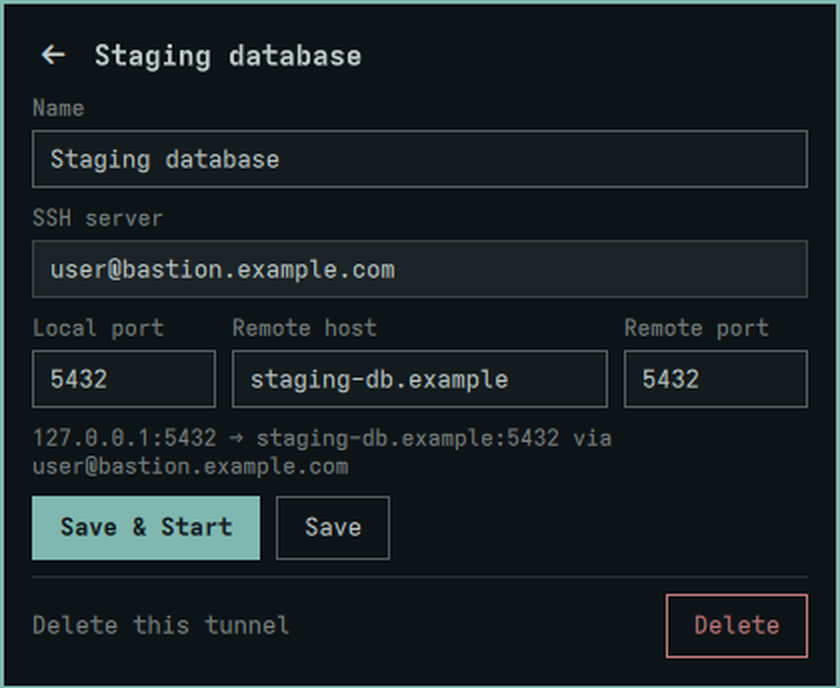
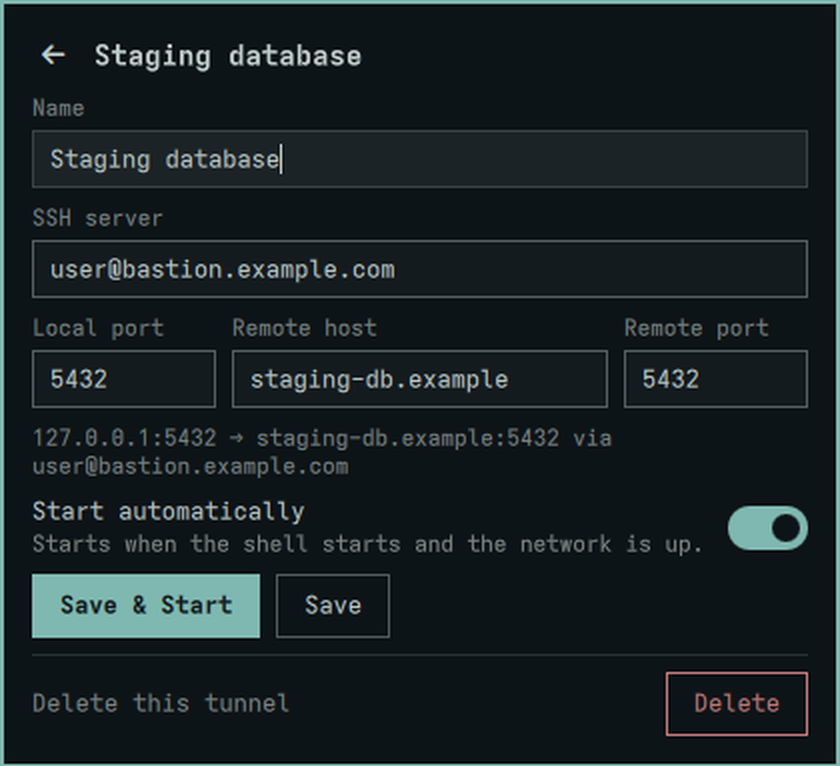
Start chosen tunnels automatically (#3)
Each tunnel gets a **Start automatically** switch (in its settings).
Marked tunnels start when the shell starts and the network is up.

**Rules, so it never gets in the way**
- Needs a network first: `tunnel-status.sh` now ends with an `N <0|1>`
line (is there a default route).
- One tunnel at a time, **once per session**: a tunnel that fails is not
retried in a loop (systemd already gives up after five tries), and one
you stopped yourself is not started again.
- Already up, connecting, failed, or its port taken by another program:
left alone.
- Saving a tunnel never starts it behind your back: autostart applies
from the next session, and **Save & Start** is how to start now.

**Tested**
- `Model.js`: `dueForAutostart` and `parseOnline`, plus the flag
surviving `clean()` (88 unit tests pass).
- Status script: the `N` line (22 pass in `tests/e2e-local.sh`).
- Live in the real shell with two tunnels, one marked and one not: the
marked one started by itself within seconds and the other stayed down;
after systemd gave up the restart counter stayed at 5 for 20 s (no
loop); after a manual stop it stayed down for 10 s; a shell restart (new
session) started it again.
- Screenshot of the edit form refreshed (made-up data, real widget).

Not covered: the SSH server being reachable only through a VPN that
comes up later. The first attempt then fails and the README says to
start it manually.

Version 0.2.0.

🤖 Generated with [Claude Code](https://claude.com/claude-code)

---------

diff --git a/Panel.qml b/Panel.qml
@@ -47,6 +47,12 @@ Panel {
   property var prevState: ({})
   property var manualStop: ({})
 
+  // "Start automatically": nothing starts until there is a network, and each tunnel is
+  // tried once per session.
+  property bool online: false
+  property var autostartTried: ({})
+  property bool autostartForm: false
+
   readonly property string i18nDir: String(Qt.resolvedUrl("i18n")).replace(/^qs:\/\//, "")
   readonly property string scriptsDir: String(Qt.resolvedUrl("scripts")).replace(/^file:\/\//, "")
   Commons.Translations { id: strings; directory: root.i18nDir }
@@ -154,8 +160,18 @@ Panel {
 
   property bool loaded: false
 
+  function runAutostart() {
+    if (ctlProc.running || !root.loaded || root.saving) return
+    var due = Model.dueForAutostart(root.tunnels, root.states, root.online, root.autostartTried)
+    if (due.length === 0) return
+    var t = root.tunnelById(due[0])
+    root.autostartTried[t.id] = true
+    root.runCtl("start", t)
+  }
+
   function onPolled(text) {
     root.states = Model.parsePoll(text)
+    root.online = Model.parseOnline(text)
     root.nowMs = Date.now()
     var dropped = Model.detectDrops(root.tunnels, root.states, root.prevState, root.manualStop, root.busyId)
     for (var i = 0; i < dropped.length; i++) {
@@ -163,6 +179,7 @@ Panel {
       Quickshell.execDetached(["notify-send", "-u", "critical", strings.t("notice.droppedTitle"),
         strings.t("notice.dropped").arg(t.name).arg(root.reasonText(t, root.states[t.id]))])
     }
+    root.runAutostart()
   }
 
   // ---- start / stop --------------------------------------------------------
@@ -212,6 +229,7 @@ Panel {
     localFieldItem.text = t ? String(t.localPort) : ""
     hostFieldItem.text = t ? t.remoteHost : ""
     portFieldItem.text = t ? String(t.remotePort) : ""
+    root.autostartForm = t ? t.autostart === true : false
     nameFieldItem.forceActiveFocus()
   }
 
@@ -238,7 +256,8 @@ Panel {
       target: String(serverFieldItem.text).trim(),
       localPort: String(localFieldItem.text).trim(),
       remoteHost: String(hostFieldItem.text).trim(),
-      remotePort: String(portFieldItem.text).trim()
+      remotePort: String(portFieldItem.text).trim(),
+      autostart: root.autostartForm
     }
     var key = Model.validate(candidate, root.tunnels)
     if (key !== "") {
@@ -247,6 +266,9 @@ Panel {
     }
     candidate.localPort = Number(candidate.localPort)
     candidate.remotePort = Number(candidate.remotePort)
+    // "Start automatically" applies from the next session. Saving must not start the tunnel
+    // behind the user's back; "Save & Start" is the way to start it now.
+    root.autostartTried[candidate.id] = true
 
     var list = root.tunnels.slice()
     var found = false
@@ -409,7 +431,7 @@ Panel {
       var lines = []
       for (var i = 0; i < root.tunnels.length; i++) {
         var t = root.tunnels[i]
-        lines.push(t.id + "\t" + t.name + "\t" + root.stateOfId(t.id) + "\t" + Model.address(t))
+        lines.push(t.id + "\t" + t.name + "\t" + root.stateOfId(t.id) + "\t" + Model.address(t) + "\t" + (t.autostart ? "autostart" : ""))
       }
       return lines.join("\n")
     }
@@ -832,6 +854,17 @@ Panel {
           font.family: root.fontFamily
           font.pixelSize: Style.font.bodySmall
           text: root.formError
+        }
+
+        ConduitToggleRow {
+          visible: root.view === "edit"
+          width: parent.width
+          title: strings.t("form.auto.title")
+          subtitle: root.autostartForm ? strings.t("form.auto.on") : strings.t("form.auto.off")
+          checked: root.autostartForm
+          foreground: root.foreground
+          fontFamily: root.fontFamily
+          onToggled: root.autostartForm = !root.autostartForm
         }
 
         Row {

diff --git a/tests/model.test.js b/tests/model.test.js
@@ -2,7 +2,7 @@
 const fs = require("fs");
 const path = require("path");
 const src = fs.readFileSync(path.join(__dirname, "..", "Model.js"), "utf8").replace(/^\.pragma library\s*$/m, "");
-const M = new Function(src + "\nreturn { newId, validate, clean, parsePoll, stateOf, isRunning, reasonKey, uptime, address, detectDrops };")();
+const M = new Function(src + "\nreturn { newId, validate, clean, parsePoll, stateOf, isRunning, reasonKey, uptime, address, detectDrops, parseOnline, dueForAutostart };")();
 
 let pass = 0, fail = 0;
 const eq = (a, b, m) => { const ok = JSON.stringify(a) === JSON.stringify(b); ok ? pass++ : fail++; console.log((ok ? "PASS " : "FAIL ") + m + (ok ? "" : `  got ${JSON.stringify(a)} want ${JSON.stringify(b)}`)); };
@@ -78,6 +78,31 @@ eq(M.uptime(1000 + 11 * 60, 1000), { key: "time.minutes", a: 11 }, "minutes");
 eq(M.uptime(1000 + 3 * 3600 + 5 * 60, 1000), { key: "time.hoursMinutes", a: 3, b: "05" }, "hours");
 eq(M.uptime(1000 + 50 * 3600, 1000), { key: "time.daysHours", a: 2, b: 2 }, "days");
 eq(M.address(good), "127.0.0.1:5432", "address");
+
+// autostart flag survives clean(), and only a real `true` counts
+eq(M.clean([{ ...good, autostart: true }])[0].autostart, true, "clean() keeps autostart: true");
+eq(M.clean([good])[0].autostart, false, "autostart defaults to false");
+eq(M.clean([{ ...good, autostart: "true" }])[0].autostart, false, 'autostart "true" (a string) is not true');
+
+// the online line of the status script
+eq(M.parseOnline("T\taaaaaaaa\tactive\trunning\t0\t0\t1\t\nN\t1\n"), true, "online = 1");
+eq(M.parseOnline("N\t0\n"), false, "online = 0");
+eq(M.parseOnline("T\taaaaaaaa\tactive\trunning\t0\t0\t1\t\n"), false, "no N line means offline");
+
+// what to start automatically
+{
+  const a = { id: "aaaaaaaa", autostart: true }, b = { id: "bbbbbbbb", autostart: false }, c = { id: "cccccccc", autostart: true };
+  const down = { active: "inactive", listening: false };
+  const st = { aaaaaaaa: down, bbbbbbbb: down, cccccccc: down };
+  eq(M.dueForAutostart([a, b, c], st, true, {}), ["aaaaaaaa", "cccccccc"], "autostart tunnels that are down, in list order");
+  eq(M.dueForAutostart([a, b, c], st, false, {}), [], "nothing while offline");
+  eq(M.dueForAutostart([a, b, c], {}, true, {}), [], "nothing before the first poll");
+  eq(M.dueForAutostart([a, b, c], st, true, { aaaaaaaa: true }), ["cccccccc"], "a tunnel tried this session is not tried again");
+  eq(M.dueForAutostart([a], { aaaaaaaa: { active: "active", listening: true } }, true, {}), [], "already up: leave it");
+  eq(M.dueForAutostart([a], { aaaaaaaa: { active: "activating", listening: false } }, true, {}), [], "already connecting: leave it");
+  eq(M.dueForAutostart([a], { aaaaaaaa: { active: "failed", listening: false } }, true, {}), [], "failed (gave up): do not loop");
+  eq(M.dueForAutostart([a], { aaaaaaaa: { active: "inactive", listening: true } }, true, {}), [], "port taken by another program: do not start");
+}
 
 // drop detection
 {

diff --git a/Model.js b/Model.js
@@ -42,7 +42,8 @@ function clean(raw) {
       target: String(r.target === undefined ? "" : r.target),
       localPort: Number(r.localPort),
       remoteHost: String(r.remoteHost === undefined ? "" : r.remoteHost),
-      remotePort: Number(r.remotePort)
+      remotePort: Number(r.remotePort),
+      autostart: r.autostart === true
     }
     if (!/^[0-9a-f]{8}$/.test(t.id)) continue
     if (validate(t, []) !== "") continue
@@ -64,6 +65,30 @@ function parsePoll(text) {
     }
   }
   return states
+}
+
+// The `N <0|1>` line of tunnel-status.sh: is there a default route (a network at all)?
+function parseOnline(text) {
+  var lines = String(text).split("\n")
+  for (var i = 0; i < lines.length; i++) {
+    var f = lines[i].split("\t")
+    if (f[0] === "N") return f[1] === "1"
+  }
+  return false
+}
+
+// Tunnels to start now: marked "start automatically", not running, polled at least once,
+// the network is up, and not tried yet this session (so a failing tunnel is not retried in a
+// loop, and one you stopped yourself is not started again). Returns ids, in list order.
+function dueForAutostart(tunnels, states, online, tried) {
+  var due = []
+  if (!online) return due
+  for (var i = 0; i < tunnels.length; i++) {
+    var t = tunnels[i]
+    if (t.autostart === true && !tried[t.id] && states[t.id] !== undefined && stateOf(states[t.id]) === "down")
+      due.push(t.id)
+  }
+  return due
 }
 
 // "up" | "connecting" | "failed" | "conflict" | "down"

diff --git a/README.md b/README.md
@@ -28,6 +28,7 @@ The screenshots use made-up names and addresses.
 - **One list of tunnels** with live status: `Connected · 127.0.0.1:5432 · 11 min`.
 - **Start and stop** with a switch, or from the command line and keybindings (see below).
 - **Add, edit and delete** tunnels in the popup: a name, the SSH server, a local port, and the remote host and port.
+- **Start automatically**: mark the tunnels you always need. They start when the shell starts and the network is up, once per session, so a tunnel that fails is not retried in a loop and one you stopped yourself stays stopped.
 - **Copy the address** (`127.0.0.1:<port>`) with one click once it is up.
 - **Failures say why**: host key not trusted yet, login refused, name does not resolve, server unreachable, local port in use.
 - **Drop notification** when a tunnel that was up goes away by itself. A tunnel you stop yourself stays quiet.
@@ -74,7 +75,7 @@ omarchy plugin enable conduit.tunnel
 1. Click the arrows icon in the bar to open the list.
 2. **+** adds a tunnel. Fill in a name, the SSH server (`user@host` or a `Host` from `~/.ssh/config`), the local port to listen on, and the host and port to reach from the SSH server. Press **Save & Start**.
 3. The switch starts and stops a tunnel. Point your database client at `127.0.0.1:<local port>`.
-4. The gear edits or deletes a tunnel.
+4. The gear edits or deletes a tunnel, and holds the **Start automatically** switch.
 
 **First connection to a server.** The widget never accepts an unknown host key for you. If the row says the host key is not trusted, run `ssh user@host` once in a terminal, answer `yes`, and start the tunnel again.
 
@@ -145,11 +146,11 @@ You do **not** have to restart anything for Conduit: when the shell has no `SSH_
 | "Cannot reach the server" | The SSH server is down, firewalled, or on another port (set it in `~/.ssh/config`). |
 | "The local port is already in use" / "Port N is already in use by another program" | Pick another local port, or stop the program using it (`ss -ltnp 'sport = :5432'`). |
 | Connected, but the database client cannot connect | The SSH server cannot reach the remote host and port you entered. Test from the SSH server itself. |
+| A tunnel marked "Start automatically" did not start | It starts once per session, as soon as there is a network. If the SSH server is only reachable through a VPN that came up later, the first attempt fails: connect the VPN, then start the tunnel from the popup. |
 | Switch turns itself off again | After five failures in two minutes systemd stops retrying. Fix the cause shown in the row, then start it again. |
 
 ## Roadmap
 
-- Start chosen tunnels at login.
 - Import `LocalForward` entries from `~/.ssh/config`.
 
 ## Contributing
@@ -168,4 +169,4 @@ You do **not** have to restart anything for Conduit: when the shell has no `SSH_
 omarchy plugin add https://github.com/andriar/omarchy-conduit-tunnel.git --enable
 ```
 
-Klik ikon panah di bar, tekan **+**, isi nama, server SSH (`user@host` atau `Host` dari `~/.ssh/config`), port lokal, serta host dan port tujuan, lalu **Simpan & Mulai**. Arahkan aplikasi database ke `127.0.0.1:<port lokal>`. Tunnel hanya mendengarkan di `127.0.0.1`, tidak menyimpan password apa pun (autentikasi lewat kunci SSH), dan daftar tunnel hanya tersimpan di mesinmu. Kalau diminta mempercayai host key, jalankan `ssh user@host` sekali di terminal. Kalau kunci SSH-mu memakai passphrase, nyalakan agent dengan `systemctl --user enable --now ssh-agent.socket`, tambahkan `export SSH_AUTH_SOCK="$XDG_RUNTIME_DIR/ssh-agent.socket"` ke `~/.bashrc`, lalu jalankan `ssh-add` sekali setiap login (langkah lengkap di bagian ssh-agent). Tampilan mengikuti bahasa Omarchy (Setup > Language).
+Klik ikon panah di bar, tekan **+**, isi nama, server SSH (`user@host` atau `Host` dari `~/.ssh/config`), port lokal, serta host dan port tujuan, lalu **Simpan & Mulai**. Arahkan aplikasi database ke `127.0.0.1:<port lokal>`. Nyalakan **Start automatically** di pengaturan tunnel supaya menyala sendiri saat shell mulai dan jaringan aktif. Tunnel hanya mendengarkan di `127.0.0.1`, tidak menyimpan password apa pun (autentikasi lewat kunci SSH), dan daftar tunnel hanya tersimpan di mesinmu. Kalau diminta mempercayai host key, jalankan `ssh user@host` sekali di terminal. Kalau kunci SSH-mu memakai passphrase, nyalakan agent dengan `systemctl --user enable --now ssh-agent.socket`, tambahkan `export SSH_AUTH_SOCK="$XDG_RUNTIME_DIR/ssh-agent.socket"` ke `~/.bashrc`, lalu jalankan `ssh-add` sekali setiap login (langkah lengkap di bagian ssh-agent). Tampilan mengikuti bahasa Omarchy (Setup > Language).
